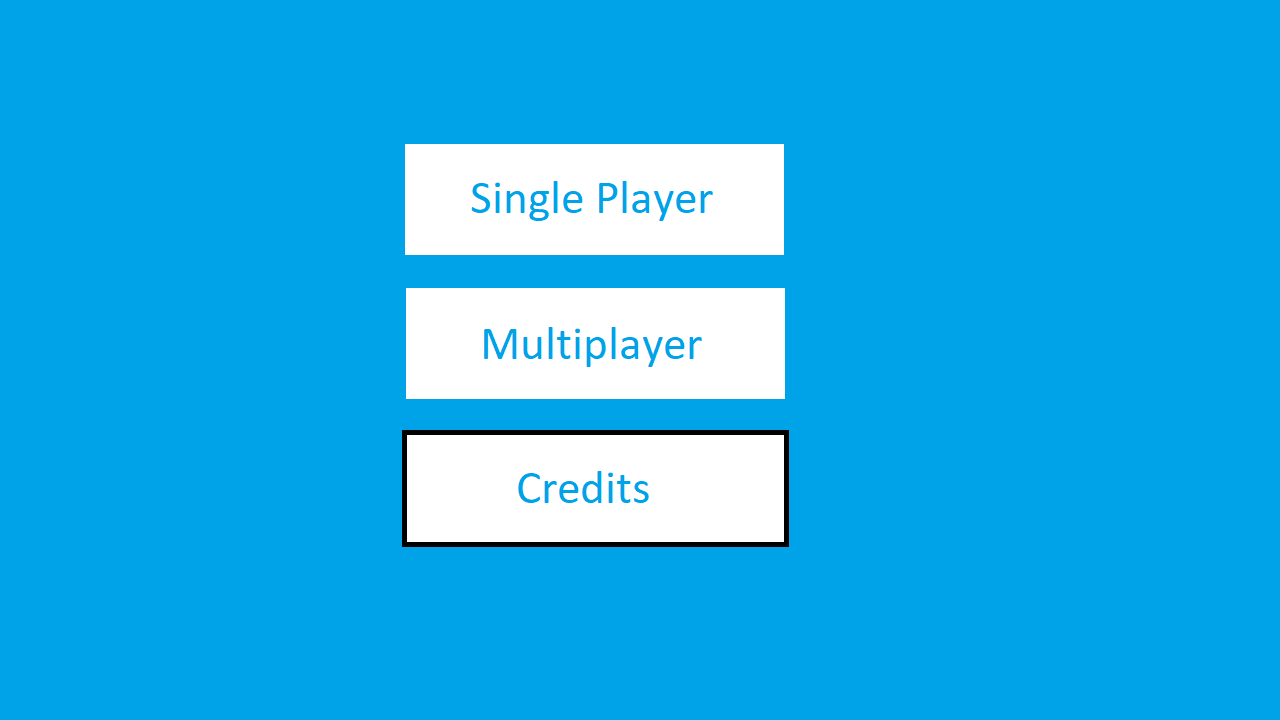
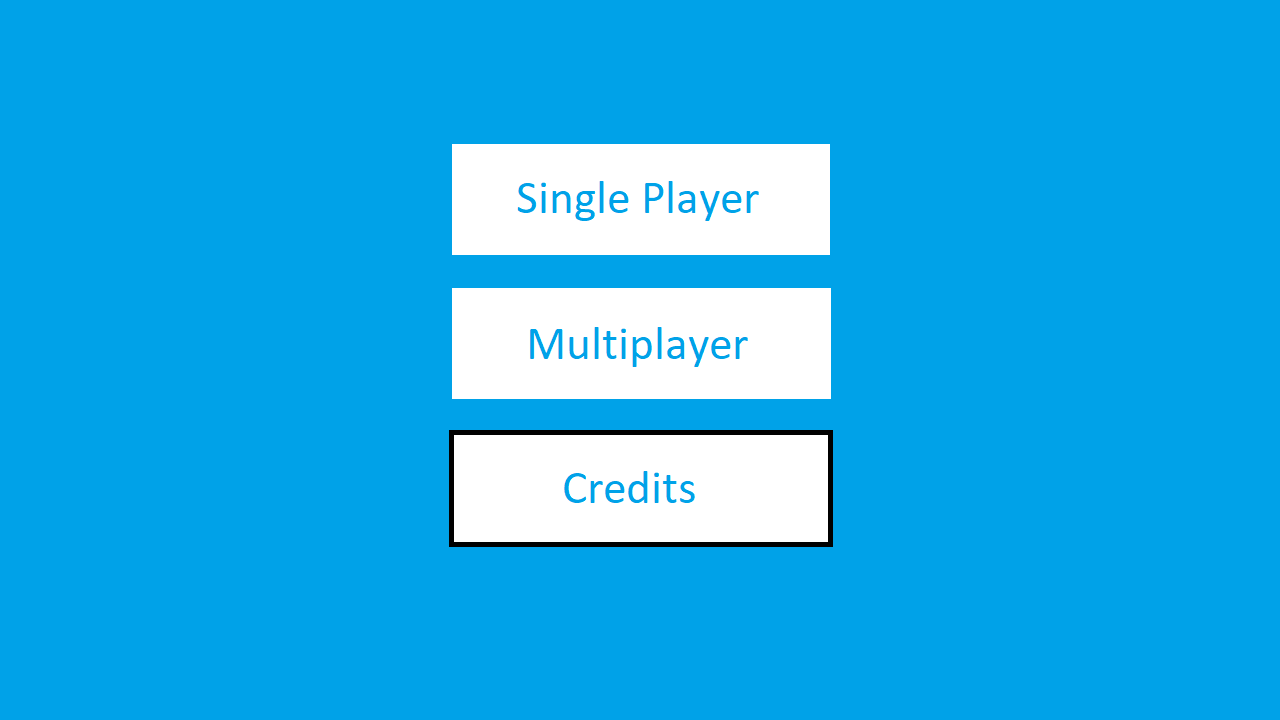
Random generation (#35)
* centered title screen buttons

* Added horizontal maze map generation

* Enabled map style randomization, added preset map

* updated move/rot speed, restructured map switch

* escape returns to main menu

* new map with holes wip

* fixed line map bug

* checkers preset map created, more of an open level

* Got map generation to work

* added enemy pathfinding

* fixed multiple windows bug on esc

* fixed invisible walls

* added pathway to gameloop

* changed starting locations

* fixed seg fault bug with maze gen

* reverted PHI const value

* fixed collisions (:

* removed unused code

* centered title screen buttons

* merge conflicts

* merge conflicts

* Got map generation to work

* merge conflicts

* reverted PHI const value

* merge conflicts

* Removed duplicated code

* duplicate code

* duplicate code

* copied enemy from master

Changed region(s): [[0.3125, 0.3972, 0.6562, 0.7639], [0.3125, 0.1833, 0.6562, 0.3667], [0.4062, 0.6417, 0.5625, 0.7028]]

diff --git a/src/app/Player/Player.cpp b/src/app/Player/Player.cpp
@@ -60,11 +60,9 @@ void Player::draw(SDL_Renderer *gRenderer, double update_lag) {
     // SDL_Rect src = {0, 0, 20, 20};
 
     SDL_Rect* dst = get_box();
-
     float temp_theta = 0;
     temp_theta = theta;
     SDL_RenderCopyEx(gRenderer, getSprite()->getTexture(), NULL, dst, temp_theta, NULL, SDL_FLIP_NONE);
-
 }
 
 /**
@@ -78,36 +76,36 @@ void Player::update() {
     // Rotate player
     rotatePlayer(theta_v);
 
+    float updateStep = MS_PER_UPDATE / 1000;
 
-    float updateStep = MS_PER_UPDATE/1000;
-    //NEW implementation
-
-
+    // NEW IMPLEMENTATION
     SDL_Rect* overlap;
     SDL_Rect currentPos;
 
-    //first add X velocity
+    // first add X velocity
     setX(getX() + (x_vel * updateStep));
 
     currentPos = {getX(), getY(), TANK_WIDTH, TANK_HEIGHT};
-    //correct for collisions
+
+    // correct for collisions
     for(auto obstacle : obstacles) {
         overlap = check_collision(&currentPos, &obstacle);
         if(overlap != nullptr) {
-            //std::cout << overlap->w << ":" << overlap->h << ":" << overlap->x << ":" << overlap->y << std::endl;
             if(x_vel < 0) {
-               setX(floor(getX() + overlap->w));
-             } else {
-               setX(floor(getX() - overlap->w));
-             }
+                setX(floor(getX() + overlap->w));
+            } else {
+                setX(floor(getX() - overlap->w));
+            }
             break;
         }
     }
+
     // next add Y velocity
     setY(getY() + (y_vel * updateStep));
 
     currentPos = {getX(), getY(), TANK_WIDTH, TANK_HEIGHT};
-    //correct for collisions
+
+    // correct for collisions
     for(auto obstacle : obstacles) {
         overlap = check_collision(&currentPos, &obstacle);
         if(overlap != nullptr) {
@@ -162,7 +160,7 @@ void Player::update() {
     {
         setX(SCREEN_WIDTH - TILE_SIZE - 16 - TANK_WIDTH);
     }
-    if (getX() < TILE_SIZE)
+    if (getX() < TILE_SIZE + 16)
     {
         setX(TILE_SIZE + 16);
     }

diff --git a/src/app/MapGenerator/MapGenerator.cpp b/src/app/MapGenerator/MapGenerator.cpp
@@ -119,17 +119,16 @@ std::vector<std::vector<int>> MapGenerator::generateHMazeMap()
 					}
 
 					if(!can_go_north) { // add another cell to ensure passage north
-						if (j + 1 > 23) {
-              array[j][i] = 0;
-              array[j-1][i] = 0;
-              continue;
-            }
-            else {
-              set.push_back(j+1);
+						if(j+1 > 23) {
+							array[j][i] = 0;
+							array[j-1][i] = 0;
+							continue;
+						} else {
+							set.push_back(j+1);
 							north_set.push_back(j+1);
 							set_size = set.size();
 							j++;
-            }
+						}
 					}
 
 					int path_north = rand() % north_set.size();
@@ -190,7 +189,7 @@ std::vector<std::vector<int>> MapGenerator::presetCheckerMap()
 				}
 				else {
 					room[i][j] = 2;
-				}
+				}	
 			}
 			for(int i = 4; i < X_WIDE; i+=4) {
 				room[i][j] = 2;
@@ -226,16 +225,17 @@ std::vector<std::vector<int>> MapGenerator::generateOpenLineMap()
 
 std::vector<std::vector<int>>* MapGenerator::generateMap()
 {
-  	// UPDATE THESE WHEN ADDING NEW MAP TYPES
+	// UPDATE THESE WHEN ADDING NEW MAP TYPES
 	int NUM_GEN = 3;
 	int NUM_PRE = 3;
+	
 	// init tile map
 	tile_map = generateEmptyMap();
 
 	srand(time(NULL));
 
 	switch(rand() % (int) ceil(NUM_GEN * 1.2))
-  	{
+	{
 		case 1:
 			tile_map = generateLineMap();
 			break;

diff --git a/src/app/MapGenerator/MapGenerator.hpp b/src/app/MapGenerator/MapGenerator.hpp
@@ -19,7 +19,6 @@ class MapGenerator{
     std::vector<std::vector<int>> generateOpenLineMap();
     std::vector<std::vector<int>> presetCheckerMap();
     int room[X_WIDE][Y_HIGH];
-
 };
 
 

diff --git a/src/app/GameLoop/GameLoop.cpp b/src/app/GameLoop/GameLoop.cpp
@@ -262,7 +262,6 @@ int GameLoop::runSinglePlayer()
 		}
 
 		checkEscape();
-
 		player->getEvent(elapsed_time);
 
 		//The player fired a bullet
